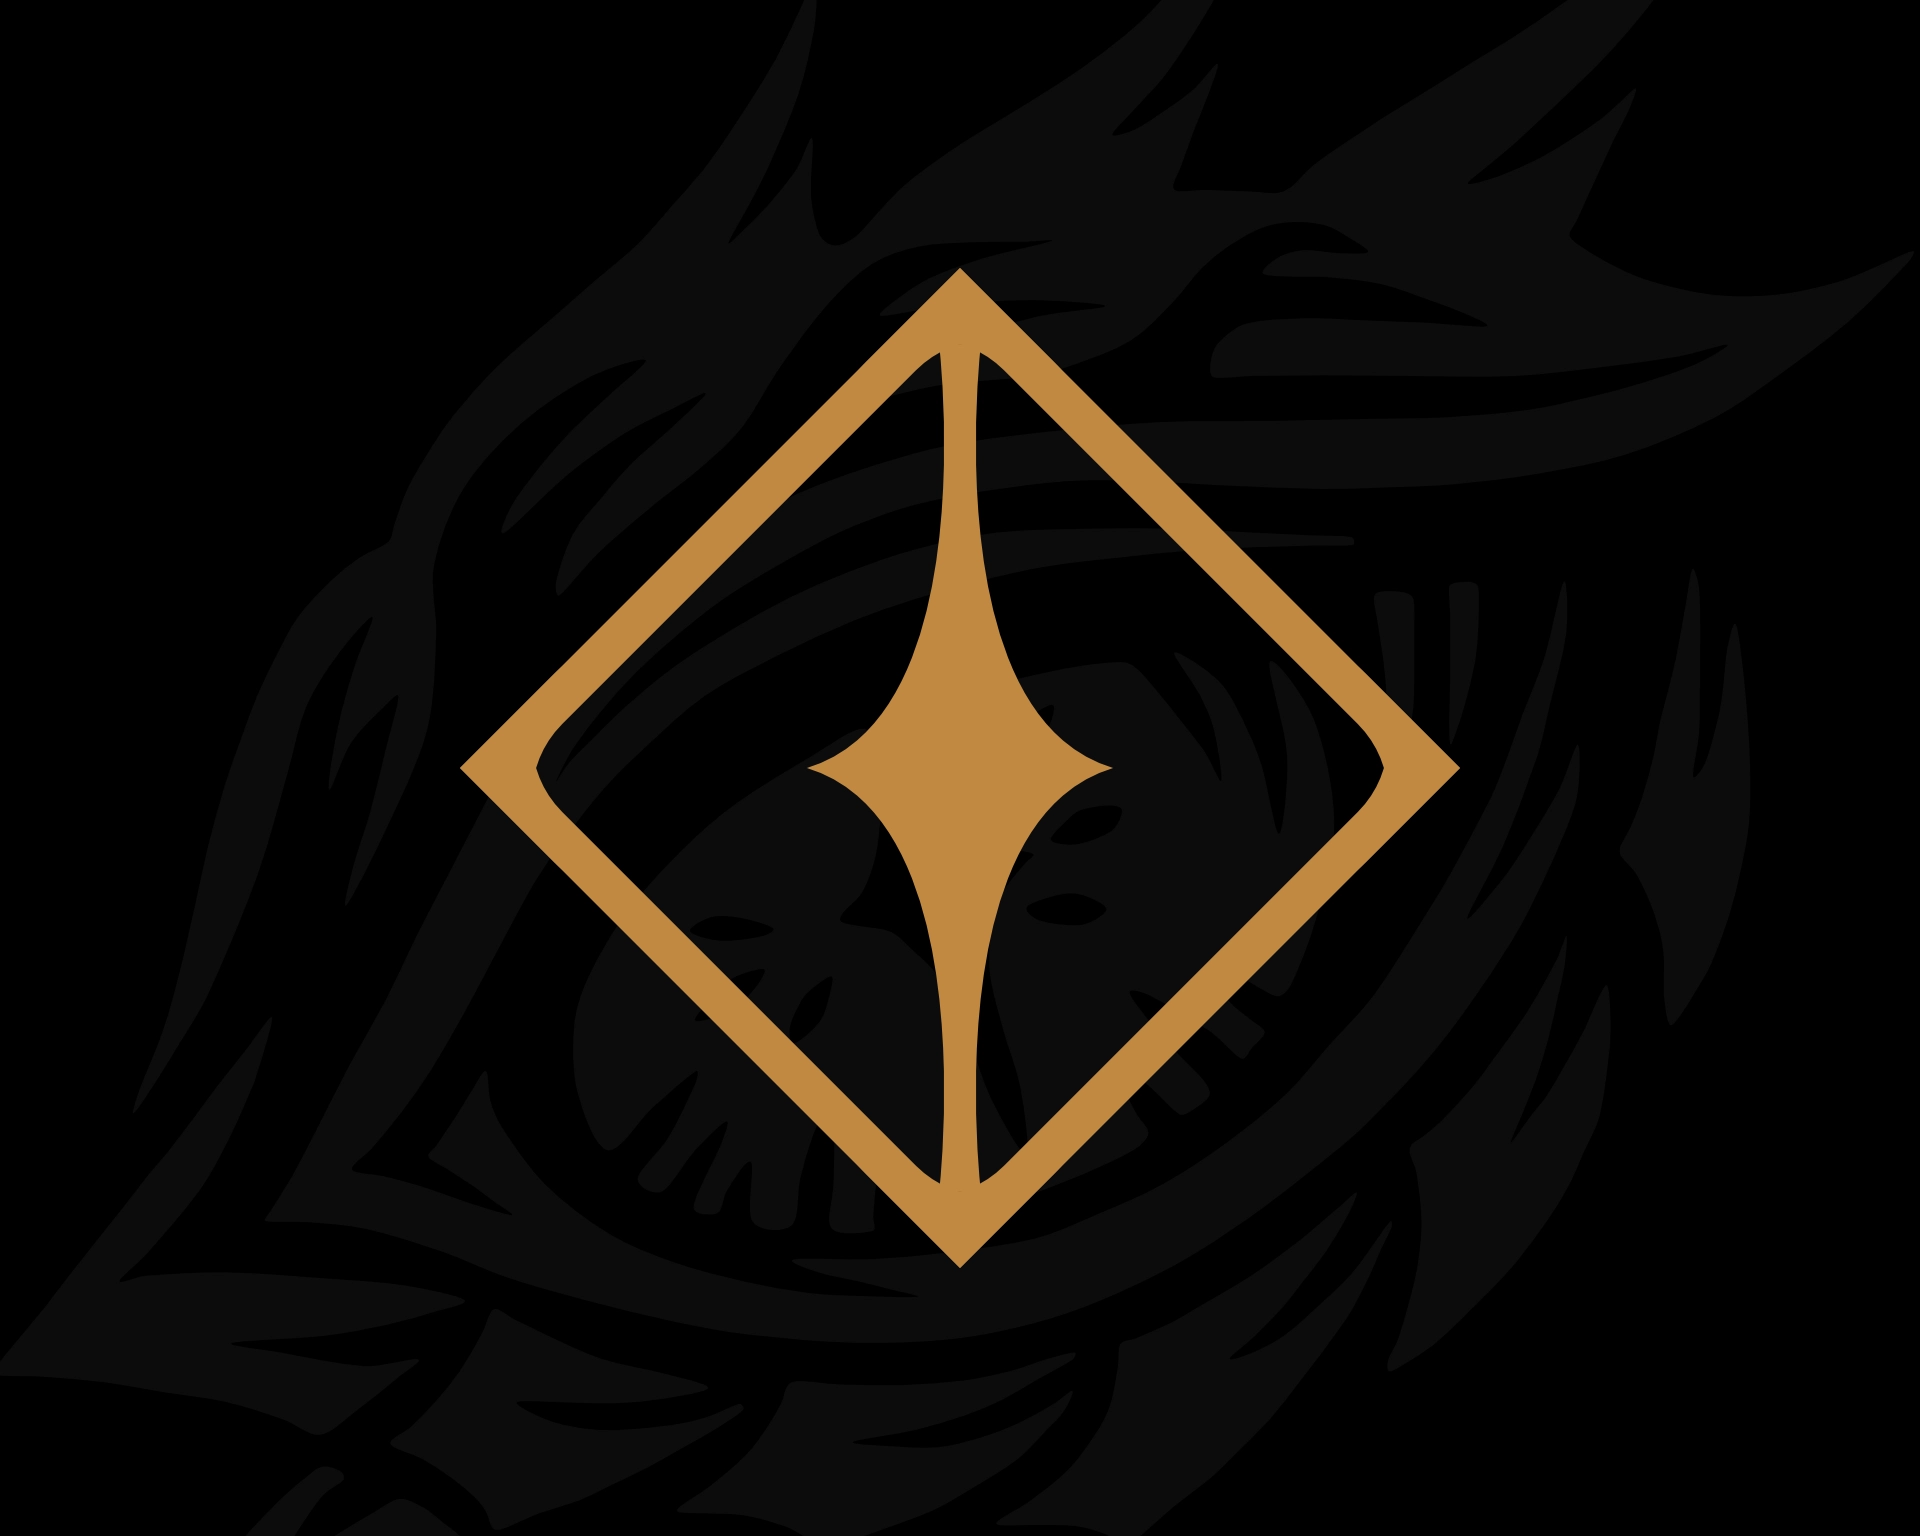
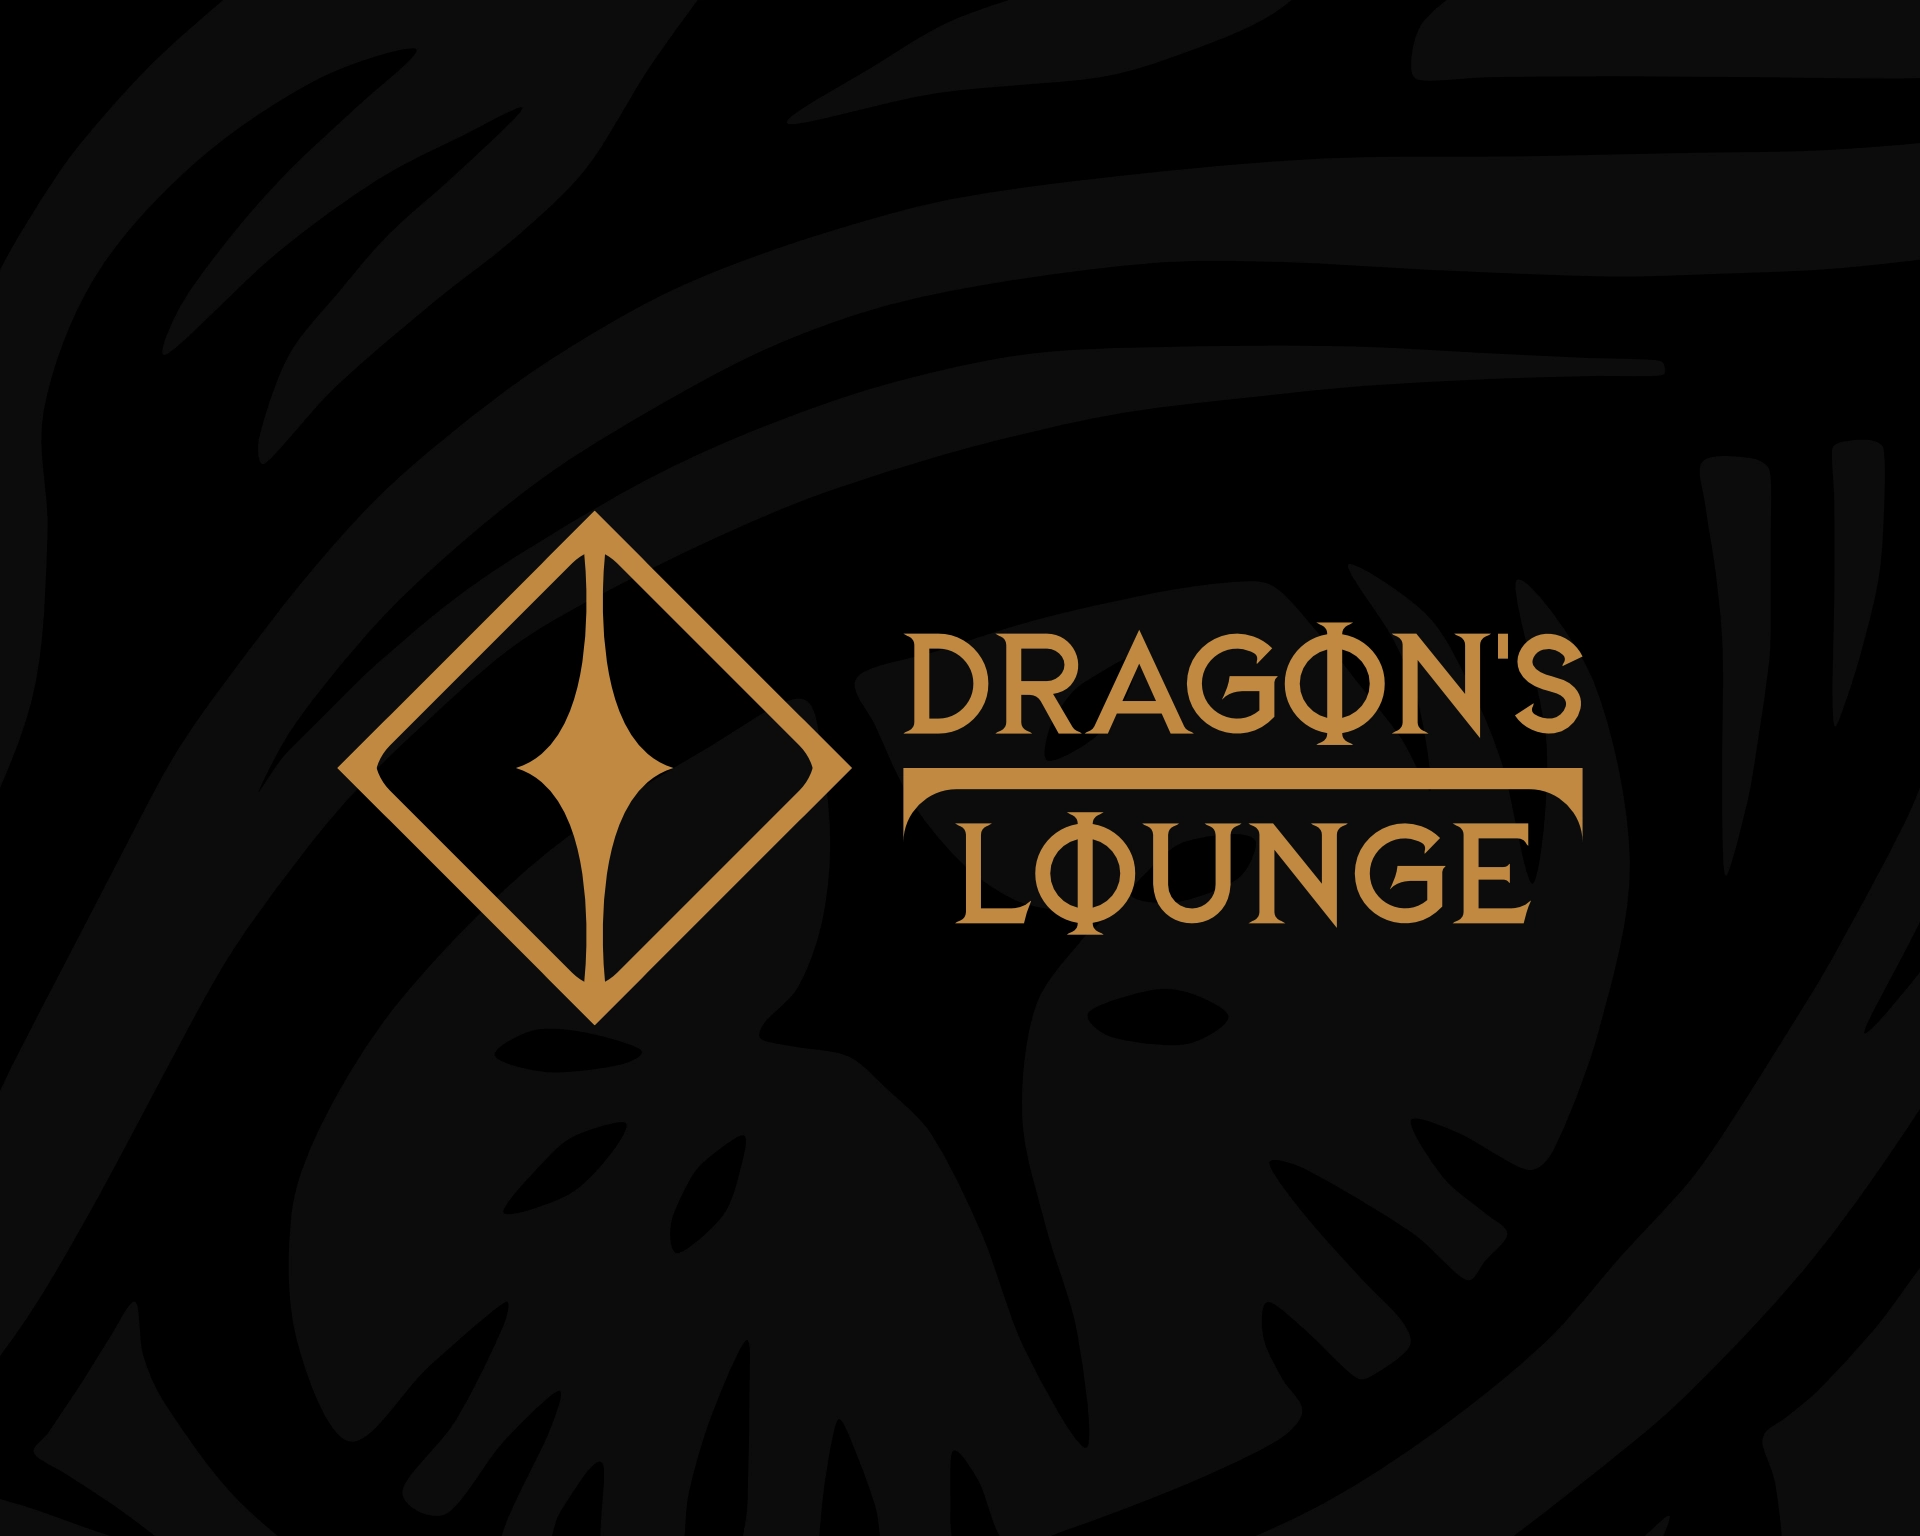
Add files via upload

Changed region(s): [[0.1875, 0.1875, 0.8438, 0.8125]]

diff --git a/projects/prochronos/index.html b/projects/prochronos/index.html
@@ -61,7 +61,7 @@
             <div class="thin">
                 <div class="title load-hidden">
                     <a href="/projects"><svg xmlns="http://www.w3.org/2000/svg" height="1em" viewBox="0 0 448 512"><path d="M9.4 233.4c-12.5 12.5-12.5 32.8 0 45.3l160 160c12.5 12.5 32.8 12.5 45.3 0s12.5-32.8 0-45.3L109.2 288 416 288c17.7 0 32-14.3 32-32s-14.3-32-32-32l-306.7 0L214.6 118.6c12.5-12.5 12.5-32.8 0-45.3s-32.8-12.5-45.3 0l-160 160z" fill="white"/></svg>Back to Projects</a>
-                    <h1>A Machine Learning Platform Game</h1>
+                    <h1>Dinosaur Platform Game</h1>
                     <p>In establishing the visual identity for the 2D dinosaur-based game 'Prochronos,' I integrated subdued colors like sandy brown and stone, creating an immersive prehistoric ambiance. The incorporation of machine learning, handled by a dedicated team, ensured a seamless and innovative gaming experience.</p>
                 </div>
                 <div class="image load-hidden">

diff --git a/projects.html b/projects.html
@@ -84,6 +84,15 @@
                         <a href="/projects/hifi-cannella/./"></a>
                     </div>
 
+                    <div class="projects-item load-hidden">
+                        <img src="/projects/dragons-lounge/cover.webp" alt="dragon's lounge project cover">
+                        <div class="projects-description">
+                            <h3>Visual Identity</h3>
+                            <h2>Dragon's Lounge</h2>
+                        </div>
+                        <a href="/projects/dragons-lounge/./"></a>
+                    </div>
+
             </div>
         </div>
     </main>
